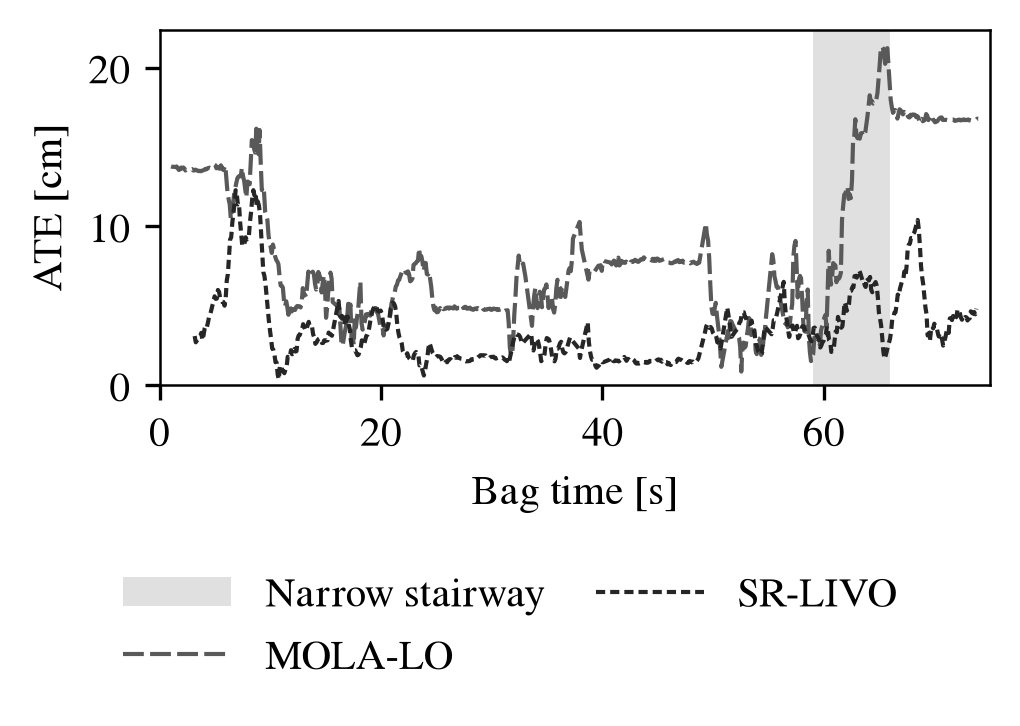
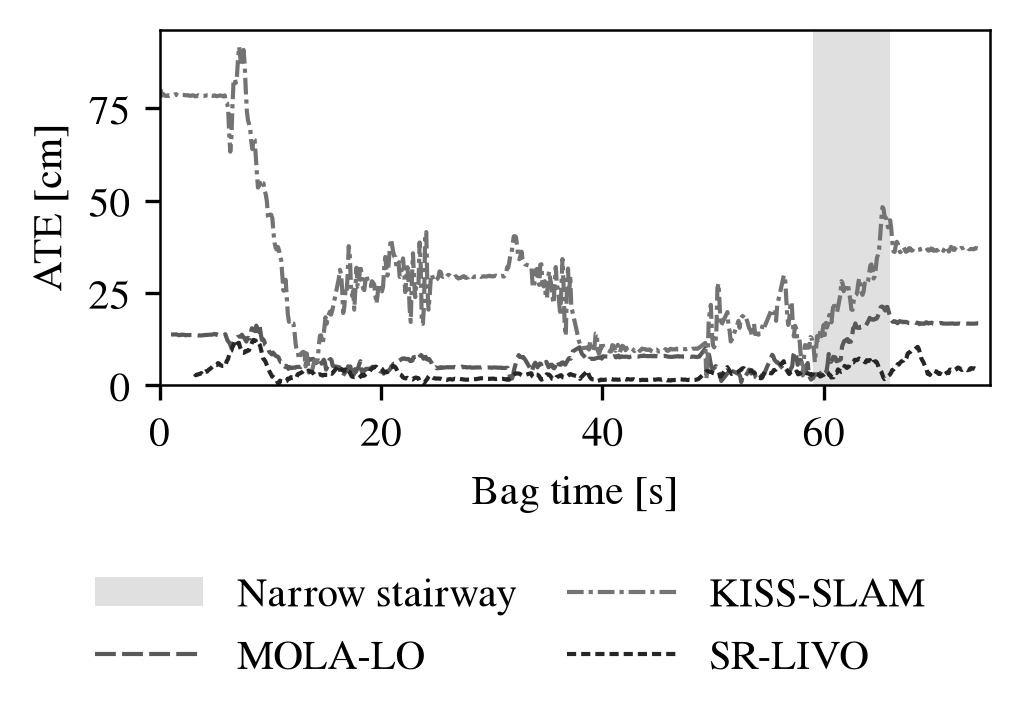
comparison/: Gruppenvergleich neu (MOLA-LO, KISS-SLAM, SR-LIVO)
compare.py auf 8146dea. OpenMAVIS noch offen (Ergebnisse liegen nicht unter
systems/openmavis/results/exp14/), KISS-SLAM ohne C2C und ohne REFERENCE.

diff --git a/comparison/status.md b/comparison/status.md
@@ -1,12 +1,12 @@
 # Vergleich Exp14 – Stand
 
-Erzeugt 2026-11-27 mit `common/eval/compare.py` auf Commit `a8e8b14`. **2 von 4 Systemen ausgewertet.**
+Erzeugt 2026-11-27 mit `common/eval/compare.py` auf Commit `8146dea`. **3 von 4 Systemen ausgewertet.**
 
 | System | Person | Läufe gefunden | Stand |
 | --- | --- | --- | --- |
 | OpenMAVIS | Felix | – | offen: keine traj_imu.tum unter systems/openmavis/results/exp14/run_<n>/ |
 | MOLA-LO | Victor | 1, 2, 3, 4 | ausgewertet (run_1, Auswahl: REFERENCE) |
-| KISS-SLAM | Merle | – | offen: keine traj_imu.tum unter systems/kiss_slam/results/exp14/run_<n>/ |
+| KISS-SLAM | Merle | 1, 2, 3 | ausgewertet (run_3, Auswahl: höchster Lauf mit voller Abdeckung) |
 | SR-LIVO | Rainhard | 1, 2, 3, 4, 5, 6, 7, 8, 9, 10, 11, 12, 13 | ausgewertet (run_10, Auswahl: REFERENCE) |
 
 ## Hinweise je System
@@ -14,6 +14,10 @@ Erzeugt 2026-11-27 mit `common/eval/compare.py` auf Commit `a8e8b14`. **2 von 4 
 **MOLA-LO**
 
 - Zeitversatz -0.050 s aus t_offset.txt angewendet (Begründung in run.md)
+
+**KISS-SLAM**
+
+- C2C noch nicht gerechnet (common/eval/c2c_scan.py)
 
 ## Ergebnisse
 

diff --git a/comparison/kpi_table.md b/comparison/kpi_table.md
@@ -1,6 +1,7 @@
 | System | Lauf | ATE RMSE [cm] | ATE Mean [cm] | ATE Median [cm] | ATE Max [cm] | ATE RMSE über Läufe [cm] | RPE 1 m trans RMSE [cm] | RPE 1 m rot RMSE [°] | Abdeckung [s] | GT-Zuordnung | C2C Median [cm] | C2C < 5 / < 10 cm [%] |
 | --- | --- | --- | --- | --- | --- | --- | --- | --- | --- | --- | --- | --- |
 | MOLA-LO | run_1 | 10.0 | 8.8 | 7.5 | 21.3 | 9.9 ± 0.1 (n=4) | 7.1 | 3.35 | 1.0–73.9 | 680/689 (99 %) | 3.6 | 64 / 83 |
+| KISS-SLAM | run_3 | 37.4 | 31.1 | 28.6 | 91.7 |  | 14.2 | 7.36 | -0.0–73.9 | 689/689 (100 %) |  |  |
 | SR-LIVO | run_10 | 4.2 | 3.5 | 3.0 | 12.3 |  | 4.4 | 1.21 | 3.2–73.8 | 657/689 (95 %) | 3.3 | 66 / 84 |
 
 ATE/RPE: evo, SE(3)-Umeyama ohne Skalierung, Zuordnung ±0,05 s, RPE über 1 m. ATE-Unterschiede unter ~2 cm nicht als Rangfolge lesen (GT-Genauigkeit 1–2 cm). C2C: Karte → Hilti-Laserscan, nur mit der Trajektorien-Ausrichtung, ohne ICP.
